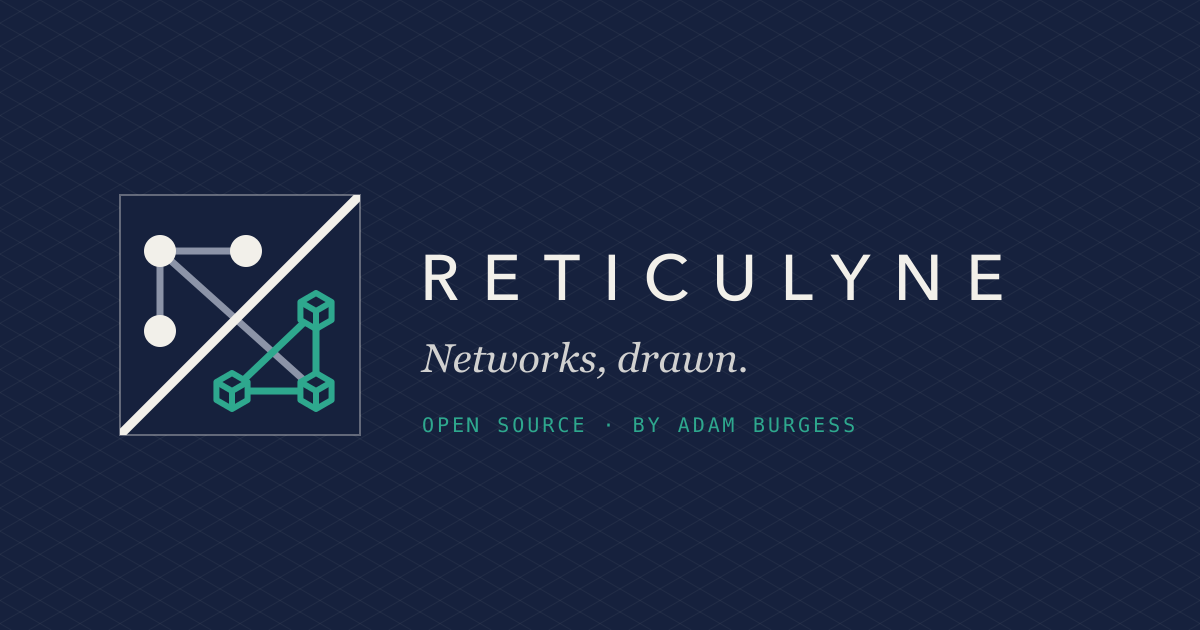
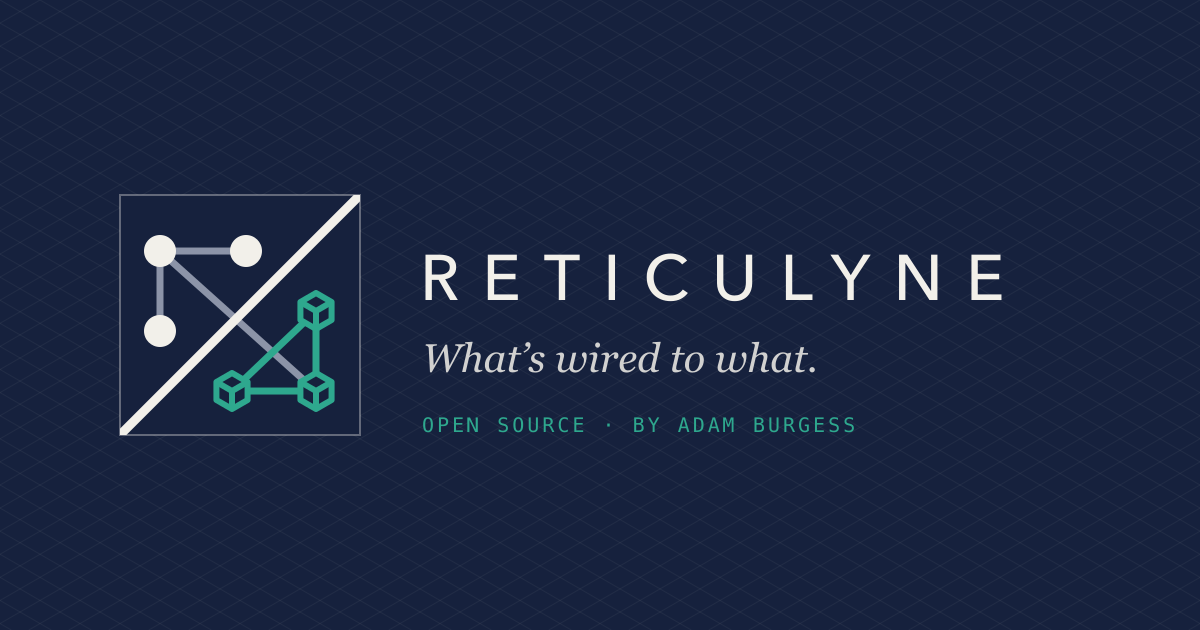
docs: README header image and alt text carry the tagline "What’s wired to what."
The image is the brand site's og.png, written here by the brand repo's
scripts/build-images.py.

Changed region(s): [[0.3392, 0.5429, 0.6783, 0.6032]]

diff --git a/README.md b/README.md
@@ -1,5 +1,5 @@
 <p align="center">
-  <a href="https://reticulyne.com"><img src="docs/images/og.png" alt="Reticulyne: networks, drawn. Open source, by Adam Burgess." width="720"></a>
+  <a href="https://reticulyne.com"><img src="docs/images/og.png" alt="Reticulyne: what’s wired to what. Open source, by Adam Burgess." width="720"></a>
 </p>
 
 # Reticulyne
